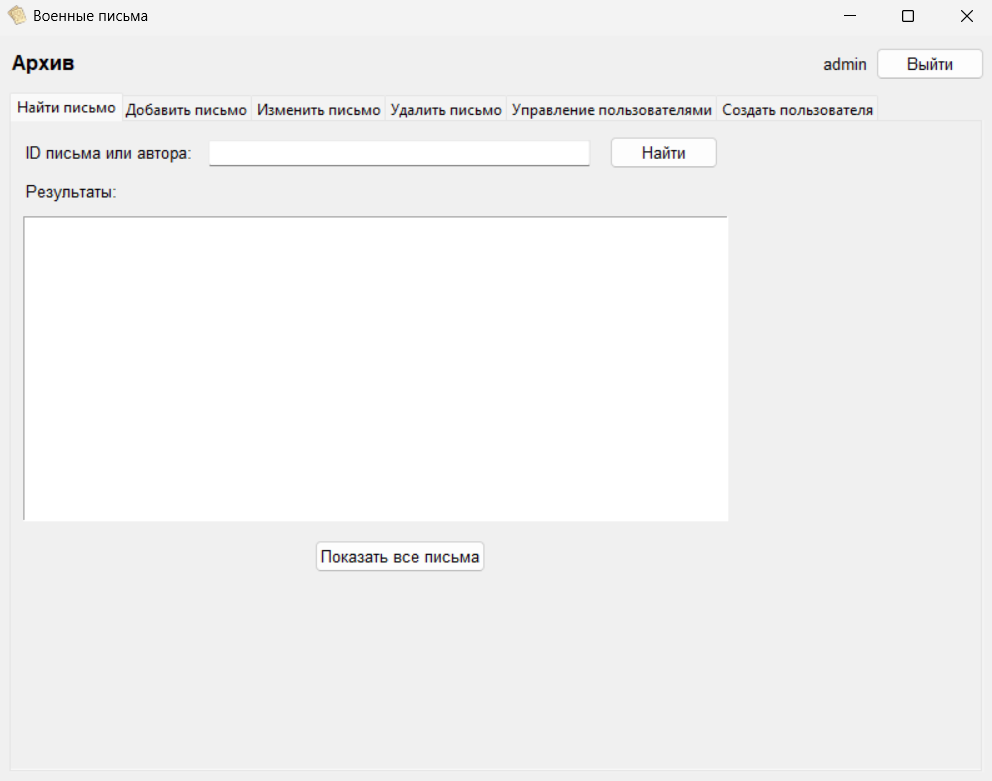
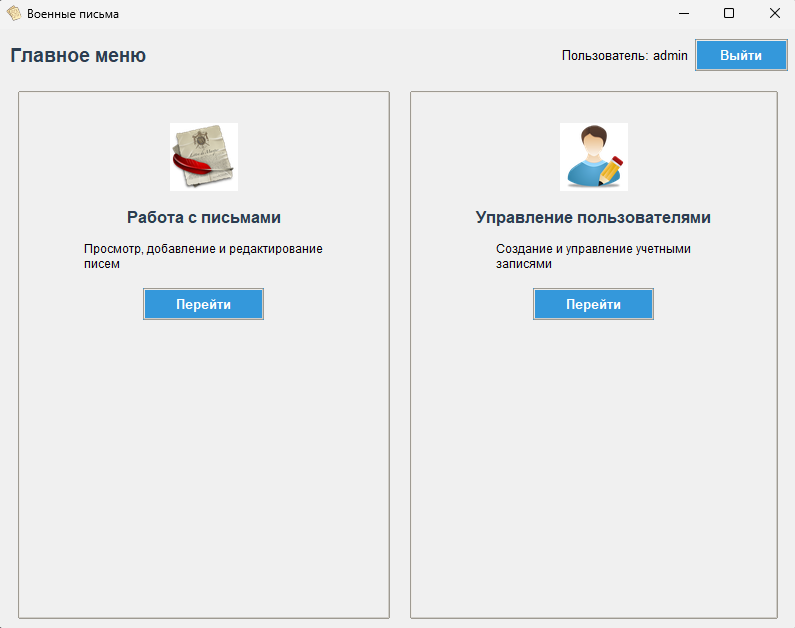
updated client's design

diff --git a/client/desktop/main.py b/client/desktop/main.py
@@ -1,5 +1,6 @@
-from  tkinter import *
+from tkinter import *
 from tkinter import ttk, messagebox, PhotoImage
+from PIL import Image, ImageTk
 import requests
 import jwt
 import os
@@ -20,9 +21,30 @@ class MilitaryLettersApp:
         self.root.iconphoto(True, self.img)
         
         self.style = ttk.Style()
-        self.style.configure('TLabel', font=('Arial', 10))
-        self.style.configure('TButton', font=('Arial', 10))
-        self.style.configure('Header.TLabel', font=('Arial', 12, 'bold'))
+        self.style.theme_use('clam')
+        
+        bg_color = "#f0f0f0"
+        accent_color = "#2c3e50"
+        button_color = "#3498db"
+        
+        self.style.configure('.', background=bg_color, font=('Arial', 10))
+        self.style.configure('TFrame', background=bg_color)
+        self.style.configure('TLabel', background=bg_color, font=('Arial', 10))
+        self.style.configure('Header.TLabel', font=('Arial', 12, 'bold'), foreground=accent_color)
+        self.style.configure('TButton', font=('Arial', 10, 'bold'), background=button_color, 
+                            foreground='white', borderwidth=1)
+        self.style.map('TButton', 
+                    background=[('active', '#2980b9'), ('pressed', '#1a5276')],
+                    foreground=[('active', 'white'), ('pressed', 'white')])
+        self.style.configure('TEntry', fieldbackground='white', borderwidth=1, padding=5)
+        self.style.configure('Card.TFrame', 
+                   background='#f0f0f0',
+                   relief=RAISED,
+                   borderwidth=2)
+        self.style.configure('Hover.TFrame',
+                   background='#f0f0f0',
+                   relief=SOLID,
+                   borderwidth=2)
         
         self.api_url = "http://localhost:5000"
         self.token = None
@@ -34,19 +56,36 @@ class MilitaryLettersApp:
         for widget in self.root.winfo_children():
             widget.destroy()
         
-        login_frame = ttk.Frame(self.root, padding="20")
-        login_frame.pack(fill=BOTH, expand=True)
+        main_frame = ttk.Frame(self.root)
+        main_frame.pack(fill=BOTH, expand=True)
         
-        ttk.Label(login_frame, text="Логин:", style='Header.TLabel').grid(row=0, column=0, pady=5, sticky=W)
-        self.login_entry = ttk.Entry(login_frame, width=30)
-        self.login_entry.grid(row=0, column=1, pady=5, padx=5)
+        login_frame = ttk.Frame(main_frame, padding=(30, 20, 30, 30), 
+                            relief='raised', borderwidth=2)
+        login_frame.place(relx=0.5, rely=0.5, anchor=CENTER)
         
-        ttk.Label(login_frame, text="Пароль:", style='Header.TLabel').grid(row=1, column=0, pady=5, sticky=W)
-        self.password_entry = ttk.Entry(login_frame, width=30, show="*")
-        self.password_entry.grid(row=1, column=1, pady=5, padx=5)
+        header = ttk.Label(login_frame, text="Авторизация", 
+                        style='Header.TLabel', font=('Arial', 14, 'bold'))
+        header.grid(row=0, column=0, columnspan=2, pady=(0, 15), sticky='ew')
         
-        login_btn = ttk.Button(login_frame, text="Войти", command=self.perform_login)
-        login_btn.grid(row=2, column=1, pady=10, sticky=E)
+        ttk.Label(login_frame, text="Логин:", style='Header.TLabel').grid(
+            row=1, column=0, pady=5, sticky=W)
+        self.login_entry = ttk.Entry(login_frame, width=25, font=('Arial', 11))
+        self.login_entry.grid(row=1, column=1, pady=5, padx=10)
+        
+        ttk.Label(login_frame, text="Пароль:", style='Header.TLabel').grid(
+            row=2, column=0, pady=5, sticky=W)
+        self.password_entry = ttk.Entry(login_frame, width=25, show="*", font=('Arial', 11))
+        self.password_entry.grid(row=2, column=1, pady=5, padx=10)
+        
+        login_btn = ttk.Button(login_frame, text="Войти", command=self.perform_login,
+                            style='TButton', width=15)
+        login_btn.grid(row=3, column=1, pady=(15, 5), sticky=E)
+        
+        version_label = ttk.Label(main_frame, text="Версия 3.1", 
+                                foreground='gray', font=('Arial', 8))
+        version_label.place(relx=1.0, rely=1.0, anchor='se', x=-10, y=-10)
+        
+        self.login_entry.focus_set()
     
     def perform_login(self):
         login = self.login_entry.get()
@@ -96,7 +135,7 @@ class MilitaryLettersApp:
                     error_msg = f"Ошибка декодирования токена: {str(e)}"
                     self.user_role = 1
                     
-                self.show_main_interface()
+                self.show_main_menu()
             else:
                 error_msg = response.json().get("message", "Неверный логин или пароль")
                 messagebox.showerror("Ошибка", error_msg)
@@ -108,23 +147,144 @@ class MilitaryLettersApp:
             error_msg = f"Неожиданная ошибка: {str(e)}"
             messagebox.showerror("Ошибка", error_msg)
     
-    def show_main_interface(self):
+    def show_main_menu(self):
         for widget in self.root.winfo_children():
             widget.destroy()
         
-        self.create_widgets()
+        self.create_main_menu()
+        
+    def create_main_menu(self):
+        for widget in self.root.winfo_children():
+            widget.destroy()
+        
+        self.main_frame = ttk.Frame(self.root, style='TFrame')
+        self.main_frame.pack(fill=BOTH, expand=True, padx=10, pady=10)
+        
+        self.header_frame = ttk.Frame(self.main_frame, style='TFrame')
+        self.header_frame.pack(fill=X, pady=(0, 20))
+        
+        ttk.Label(self.header_frame, 
+                text="Главное меню", 
+                style='Header.TLabel', 
+                font=('Arial', 14, 'bold')).pack(side=LEFT)
+        
+        user_frame = ttk.Frame(self.header_frame, style='TFrame')
+        user_frame.pack(side=RIGHT)
+        
+        if self.current_user:
+            ttk.Label(user_frame, 
+                    text=f"Пользователь: {self.current_user}", 
+                    font=('Arial', 10)).pack(side=LEFT, padx=5)
+        
+        logout_btn = ttk.Button(user_frame, 
+                            text="Выйти", 
+                            command=self.logout,
+                            style='TButton')
+        logout_btn.pack(side=RIGHT)
+        
+        cards_container = ttk.Frame(self.main_frame, style='TFrame')
+        cards_container.pack(fill=BOTH, expand=True)
+        
+        letters_frame = ttk.Frame(cards_container, 
+                                style='Card.TFrame',
+                                padding=20,
+                                width=300,
+                                relief=RAISED,
+                                borderwidth=2)
+        letters_frame.pack(side=LEFT, fill=BOTH, expand=True, padx=10, ipady=10)
+        
+        users_frame = ttk.Frame(cards_container, 
+                            style='Card.TFrame',
+                            padding=20,
+                            width=300,
+                            relief=RAISED,
+                            borderwidth=2)
+        
+        self._create_menu_card(
+            letters_frame,
+            "Работа с письмами",
+            "Просмотр, добавление и редактирование писем",
+            self.show_letters_interface,
+            "letters"
+        )
         
         if self.user_role == 6:
-            self.tab_control.select(self.users_tab)    
+            users_frame.pack(side=RIGHT, fill=BOTH, expand=True, padx=10, ipady=10)
+            self._create_menu_card(
+                users_frame,
+                "Управление пользователями",
+                "Создание и управление учетными записями",
+                self.show_users_interface,
+                "users"
+            )
 
-    def create_widgets(self):
-        self.main_frame = ttk.Frame(self.root)
-        self.main_frame.pack(fill=BOTH, expand=True, padx=10, pady=10)
+    def _create_menu_card(self, parent, title, description, command, icon_type=None):        
+        if icon_type == "letters":
+            icon_path = "letters_icon.png"
+        else:
+            icon_path = "users_icon.png"
+        
+        try:
+            img = Image.open(icon_path)
+            img = img.resize((64, 64), Image.LANCZOS)
+            photo = ImageTk.PhotoImage(img)
+            
+            if not hasattr(self, 'menu_card_images'):
+                self.menu_card_images = []
+            self.menu_card_images.append(photo)
+            
+            icon_label = Label(parent, image=photo, bg='white')
+            icon_label.image = photo
+            icon_label.pack(pady=(10, 15))
+            
+        except Exception as e:
+            print(f"Ошибка загрузки иконки: {e}")
+            icon_label = Label(parent, 
+                            text=icon_path, 
+                            font=('Arial', 36),
+                            bg='white')
+            icon_label.pack(pady=(10, 15))
+        
+        ttk.Label(parent, 
+                text=title, 
+                style='Header.TLabel',
+                font=('Arial', 12, 'bold')).pack(pady=(0, 10))
+        
+        ttk.Label(parent, 
+                text=description, 
+                font=('Arial', 9),
+                wraplength=250).pack(pady=(0, 15))
+        
+        btn = ttk.Button(parent,
+                        text="Перейти",
+                        command=command,
+                        style='TButton',
+                        width=15)
+        btn.pack()
+        
+        def on_enter(e):
+            parent.config(relief=SOLID, style='Hover.TFrame')
+        
+        def on_leave(e):
+            parent.config(relief=RAISED, style='Card.TFrame')
+        
+        parent.bind("<Enter>", on_enter)
+        parent.bind("<Leave>", on_leave)
+        for child in parent.winfo_children():
+            child.bind("<Enter>", lambda e: on_enter(None))
+            child.bind("<Leave>", lambda e: on_leave(None))
+    
+    def show_letters_interface(self):
+        for widget in self.main_frame.winfo_children():
+            widget.destroy()
         
         self.header_frame = ttk.Frame(self.main_frame)
         self.header_frame.pack(fill=X, pady=[0, 10])
         
-        ttk.Label(self.header_frame, text="Архив", style='Header.TLabel').pack(side=LEFT)
+        ttk.Label(self.header_frame, text="Работа с письмами", style='Header.TLabel').pack(side=LEFT)
+        
+        back_btn = ttk.Button(self.header_frame, text="Назад", command=self.show_main_menu)
+        back_btn.pack(side=RIGHT, padx=5)
         
         user_frame = ttk.Frame(self.header_frame)
         user_frame.pack(side=RIGHT)
@@ -154,15 +314,39 @@ class MilitaryLettersApp:
             self.delete_tab = ttk.Frame(self.tab_control)
             self.tab_control.add(self.delete_tab, text='Удалить письмо')
             self.create_delete_tab()
-            
-            self.users_tab = ttk.Frame(self.tab_control)
-            self.tab_control.add(self.users_tab, text='Управление пользователями')
-            self.create_users_tab()
-            
-            self.create_user_tab = ttk.Frame(self.tab_control)
-            self.tab_control.add(self.create_user_tab, text='Создать пользователя')
-            self.create_add_user_tab()
+    
+    def show_users_interface(self):
+        for widget in self.main_frame.winfo_children():
+            widget.destroy()
         
+        self.header_frame = ttk.Frame(self.main_frame)
+        self.header_frame.pack(fill=X, pady=[0, 10])
+        
+        ttk.Label(self.header_frame, text="Управление пользователями", style='Header.TLabel').pack(side=LEFT)
+        
+        back_btn = ttk.Button(self.header_frame, text="Назад", command=self.show_main_menu)
+        back_btn.pack(side=RIGHT, padx=5)
+        
+        user_frame = ttk.Frame(self.header_frame)
+        user_frame.pack(side=RIGHT)
+        
+        if self.current_user:
+            ttk.Label(user_frame, text=self.current_user).pack(side=LEFT, padx=5)
+        
+        logout_btn = ttk.Button(user_frame, text="Выйти", command=self.logout)
+        logout_btn.pack(side=RIGHT)
+        
+        self.tab_control = ttk.Notebook(self.main_frame)
+        self.tab_control.pack(fill=BOTH, expand=True)
+        
+        self.users_tab = ttk.Frame(self.tab_control)
+        self.tab_control.add(self.users_tab, text='Поиск пользователей')
+        self.create_users_tab()
+        
+        self.create_user_tab = ttk.Frame(self.tab_control)
+        self.tab_control.add(self.create_user_tab, text='Создать пользователя')
+        self.create_add_user_tab()
+    
     def logout(self):
         self.token = None
         self.show_login_form()
@@ -187,7 +371,7 @@ class MilitaryLettersApp:
     
     def create_add_tab(self):
         frame = ttk.Frame(self.create_tab)
-        frame.pack(fill=BOTH, expand=True, padx=10, pady=10)
+        frame.pack(padx=10, pady=10)
         
         ttk.Label(frame, text="Автор:").grid(row=0, column=0, sticky=W, pady=5)
         self.create_author = ttk.Entry(frame, width=50)
@@ -210,7 +394,7 @@ class MilitaryLettersApp:
     
     def create_read_tab(self):
         frame = ttk.Frame(self.read_tab)
-        frame.pack(fill=BOTH, expand=True, padx=10, pady=10)
+        frame.pack(padx=10, pady=10)
         
         ttk.Label(frame, text="ID письма или автора:").grid(row=0, column=0, sticky=W, pady=5)
         self.read_query = ttk.Entry(frame, width=50)
@@ -229,7 +413,7 @@ class MilitaryLettersApp:
     
     def create_update_tab(self):
         frame = ttk.Frame(self.update_tab)
-        frame.pack(fill=BOTH, expand=True, padx=10, pady=10)
+        frame.pack(padx=10, pady=10)
         
         ttk.Label(frame, text="ID письма для обновления:").grid(row=0, column=0, sticky=W, pady=5)
         self.update_id = ttk.Entry(frame, width=50)
@@ -259,7 +443,7 @@ class MilitaryLettersApp:
     
     def create_delete_tab(self):
         frame = ttk.Frame(self.delete_tab)
-        frame.pack(fill=BOTH, expand=True, padx=10, pady=10)
+        frame.pack(padx=10, pady=10)
         
         ttk.Label(frame, text="ID письма для удаления:").grid(row=0, column=0, sticky=W, pady=5)
         self.delete_id = ttk.Entry(frame, width=50)
@@ -540,7 +724,7 @@ class MilitaryLettersApp:
     
     def create_users_tab(self):
         frame = ttk.Frame(self.users_tab)
-        frame.pack(fill=BOTH, expand=True, padx=10, pady=10)
+        frame.pack(padx=10, pady=10)
         
         ttk.Label(frame, text="ID пользователя:").grid(row=0, column=0, sticky=W, pady=5)
         self.user_id_entry = ttk.Entry(frame, width=30)
@@ -559,7 +743,7 @@ class MilitaryLettersApp:
         
     def create_add_user_tab(self):
         frame = ttk.Frame(self.create_user_tab)
-        frame.pack(fill=BOTH, expand=True, padx=10, pady=10)
+        frame.pack(padx=10, pady=10)
         
         ttk.Label(frame, text="Логин:").grid(row=0, column=0, sticky=W, pady=5)
         self.new_user_login = ttk.Entry(frame, width=30)
